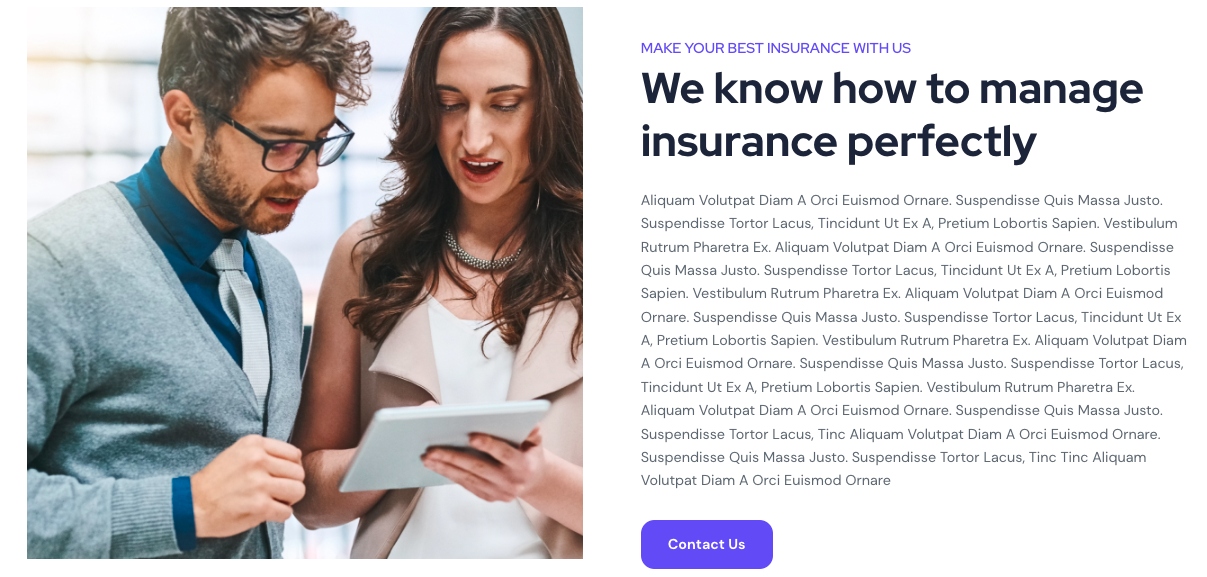
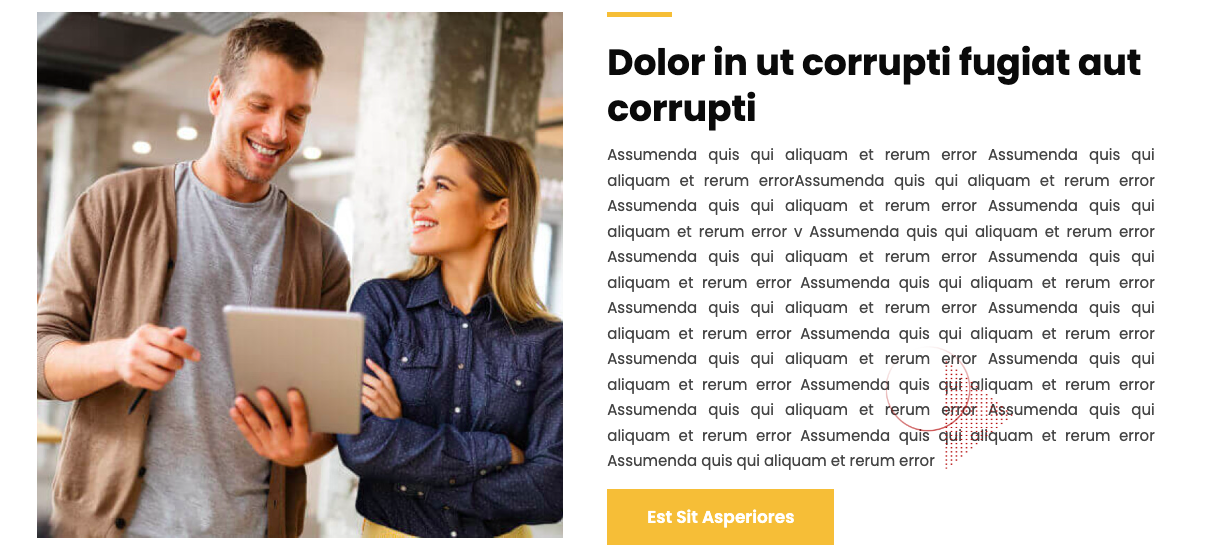
basic section

diff --git a/resources/views/frontend/pages/dynamic_page.blade.php b/resources/views/frontend/pages/dynamic_page.blade.php
@@ -17,63 +17,47 @@
 
 @endsection
 @section('content')
-    <div class="rts-breadcrumb-area bg_image"
-         style="background:linear-gradient(rgb(41 122 190 / 63%), rgb(233 63 51 / 30%)), url( {{ $page_detail->image ? asset('images/page/'.$page_detail->image) : asset('assets/frontend/images/breadcrumb/01.jpg') }} ); margin-bottom:30px;">
+    <div class="rs-breadcrumbs" style="background:linear-gradient(rgb(246 184 51 / 29%), rgb(10 10 10 / 66%)), url( {{ $page_detail->image ? asset('images/page/'.$page_detail->image) : asset('assets/frontend/images/breadcrumbs/inr_1.jpg') }} ); margin-bottom:30px;">
         <div class="container">
-            <div class="row align-items-center">
-                <div class="col-xl-6 col-lg-6 col-md-6 col-sm-12 col-12 breadcrumb-1">
-                    <h1 class="title">{{ucwords(@$page_detail->name)}}</h1>
-                </div>
-                <div class="col-xl-6 col-lg-6 col-md-6 col-sm-12 col-12">
-                    <div class="bread-tag">
-                        <a href="/">Home</a>
-                        <span> / </span>
-                        <a href="#" class="active">{{ucwords(@$page_detail->name)}}</a>
-                    </div>
-                </div>
+            <div class="breadcrumbs-inner">
+                <h1 class="page-title">
+                    {{ucwords(@$page_detail->name)}}
+                </h1>
             </div>
         </div>
     </div>
+
     @foreach($sections as $key=>$value)
 
         @if($value == "basic_section")
-            <div class="rts-business-goal rts-business-goal2 mt--0 rts-section-gapBottom" style="padding-bottom: 30px;!important;">
+            <div class="rs-about style2 pt-20 pb-30">
                 <div class="container">
                     <div class="row">
-                        <!-- business goal left -->
-                        <div class="col-lg-6">
-                            <div class="business-goal-one">
+                        <div class="col-lg-6 pr-33 md-pr-15 md-mb-50">
+                            <div class="images-part">
                                 <img class="lazy" data-src="{{asset('/images/section_elements/basic_section/'.@$basic_elements->image) }}" alt="">
                             </div>
                         </div>
-                        <!-- business goal right -->
-
-                        <!-- right area business -->
-                        <div class="col-lg-6 mt--35 mt_md--70 mt_sm--70 mb_sm--35">
-                            <div class="business-goal-right">
-                                <div class="rts-title-area business text-start pl--30">
-                                    <p class="pre-title">
-                                        {{@$basic_elements->subheading?? ''}}
-                                    </p>
-                                    <h2 class="title">{{@$basic_elements->heading ?? ''}}</h2>
-                                </div>
-                                <div class="rts-business-goal pl--30" style="margin-top: 10px;">
-                                    <div class="about-inner">
-                                        <p class="disc fs-18 text-justify" style="font-size: 18px!important;  line-height: 30px!important;">
-                                            {!! @$basic_elements->description !!}
-                                        </p>
+                        <div class="col-lg-6 ">
+                            <div class="sec-title">
+                                <h2 class="title">
+                                    {{@$basic_elements->heading ?? ''}}
+                                </h2>
+                                <div class="margin-0 pt-10 text-justify"> {!! @$basic_elements->description !!}</div>
+                                @if(@$basic_elements->button_link)
+                                    <div class="btn-part mt-3 md-mt-30">
+                                        <a class="readon consultant discover" href="{{@$basic_elements->button_link}}">
+                                            {{ucwords(@$basic_elements->button ?? 'Discover More')}}
+                                        </a>
                                     </div>
-                                    @if(@$basic_elements->button_link)
-                                        <div class="goal-button-wrapper mt--10">
-                                            <a href="{{@$basic_elements->button_link}}" class="rts-btn btn-primary color-h-black">
-                                                {{ucwords(@$basic_elements->button ?? 'Discover More')}}
-                                            </a>
-                                        </div>
-                                    @endif
-                                </div>
+                                @endif
                             </div>
                         </div>
-                        <!-- right area business ENd -->
+                    </div>
+                </div>
+                <div class="rs-animation">
+                    <div class="animate-style">
+                        <img class="scale" src="{{asset('assets/frontend/images/about/tri-circle-1.png')}}" alt="About">
                     </div>
                 </div>
             </div>
@@ -272,11 +256,11 @@
                         </div>
                     @endif
                     <div class="row">
-                        @if(count(@$singleAlbum->gallery) > 0)
+                        @if(count(@$gallery_elements) > 0)
                             <div id="gallery" style="padding: 0px 30px 0 30px;">
                                 <div id="image-gallery">
                                     <div class="row">
-                                        @foreach($singleAlbum->gallery as $gallery)
+                                        @foreach($gallery_elements as $gallery)
                                             <div class="col-lg-3 col-md-6 col-sm-6 col-xs-12 image">
                                                 <div class="{{  $page_detail->slug =='legal-document' || $page_detail->slug =='legal-documents' ? "":"img-wrapper"   }}">
                                                     <a href="{{asset('/images/albums/gallery/'.@$gallery->filename)}}">

diff --git a/app/Http/Controllers/SectionElementController.php b/app/Http/Controllers/SectionElementController.php
@@ -154,7 +154,6 @@ class SectionElementController extends Controller
             $data=[
                 'heading'                => $request->input('heading'),
                 'page_section_id'        => $section_id,
-                'subheading'             => $request->input('subheading'),
                 'description'            => $request->input('description'),
                 'list_image'             => $request->input('list_image'),
                 'button'                 => $request->input('button'),
@@ -165,7 +164,7 @@ class SectionElementController extends Controller
                 $image        = $request->file('image');
                 $name         = uniqid().'_basic_'.$image->getClientOriginalName();
                 $path         = base_path().'/public/images/section_elements/basic_section/';
-                $moved        = Image::make($image->getRealPath())->fit(610, 610)->orientate()->save($path.$name);
+                $moved        = Image::make($image->getRealPath())->fit(750, 750)->orientate()->save($path.$name);
                 if ($moved){
                     $data['image']= $name;
                 }
@@ -364,7 +363,6 @@ class SectionElementController extends Controller
             $basic                      = SectionElement::find($id);
             $basic->heading             = $request->input('heading');
             $basic->page_section_id     = $section_id;
-            $basic->subheading          = $request->input('subheading');
             $basic->list_image          = $request->input('list_image');
             $basic->description         = $request->input('description');
             $basic->button              = $request->input('button');
@@ -376,7 +374,7 @@ class SectionElementController extends Controller
                 $image                = $request->file('image');
                 $name                 = uniqid().'_basic_'.$image->getClientOriginalName();
                 $path                 = base_path().'/public/images/section_elements/basic_section/';
-                $moved                = Image::make($image->getRealPath())->fit(610, 610)->orientate()->save($path.$name);
+                $moved                = Image::make($image->getRealPath())->fit(750, 750)->orientate()->save($path.$name);
                 if ($moved){
                     $basic->image = $name;
                     if (!empty($oldimage) && file_exists(public_path().'/images/section_elements/basic_section/'.$oldimage)){

diff --git a/resources/views/backend/pages/section_elements/create.blade.php b/resources/views/backend/pages/section_elements/create.blade.php
@@ -172,13 +172,6 @@
                                                 </div>
 
                                                 <div class="form-group mb-3">
-                                                    <label>Sub Heading </label>
-                                                    <input type="text" class="form-control" maxlength="60" name="subheading" value="{{@$basic_elements->subheading}}">
-                                                    <div class="invalid-feedback">
-                                                        Please enter the basic section Sub heading.
-                                                    </div>
-                                                </div>
-                                                <div class="form-group mb-3">
                                                     <label>Description <span class="text-muted text-danger">* write 900 characters only</span></label>
                                                     <textarea class="form-control" maxlength="990" rows="14" name="description" id="basic_editor" required>{!! @$basic_elements->description !!}</textarea>
                                                     <div class="invalid-feedback">
@@ -219,7 +212,7 @@
                                                             id="basic-image" onchange="loadbasicFile('basic-image','current-basic-img',event)" name="image" {{(@$basic_elements->id !== null) ? "":"required" }}
                                                             class="profile-foreground-img-file-input" >
 
-                                                    <figcaption class="figure-caption">Banner image for current basic section. (SIZE:  610 x 610px)</figcaption>
+                                                    <figcaption class="figure-caption">Banner image for current basic section. (SIZE:  750 x 750px)</figcaption>
                                                     <div class="invalid-feedback" >
                                                         Please select a image.
                                                     </div>

diff --git a/resources/views/backend/pages/edit.blade.php b/resources/views/backend/pages/edit.blade.php
@@ -98,9 +98,19 @@
                 <div class="col-md-12">
                     <div class="card ctm-border-radius shadow-sm flex-fill">
                         <div class="card-header">
-                            <h4 class="card-title mb-0">
-                                General Details
-                            </h4>
+                            <div class="row g-4">
+                                <div class="col-sm-auto">
+                                    <h4 class="card-title mb-0">General Details</h4>
+                                </div>
+                                <div class="col-sm">
+                                    <div class="d-flex justify-content-sm-end">
+                                        <div>
+                                            <a href="{{route('section-elements.create',$page->id)}}" class="btn btn-primary"><i class="ri-edit-2-fill align-bottom me-1"></i>Section Details</a>
+                                            <a href="{{route('pages.index')}}" class="btn btn-success"><i class="ri-list-ordered align-bottom me-1"></i>Page List</a>
+                                        </div>
+                                    </div>
+                                </div>
+                            </div>
                         </div>
                         <div class="card-body">
                             <div class="form-group mb-3">

diff --git a/app/Http/Controllers/FrontController.php b/app/Http/Controllers/FrontController.php
@@ -77,16 +77,14 @@ class FrontController extends Controller
         $homepage_info      = $this->home_page->first();
         $testimonials       = Testimonial::orderBy('created_at', 'asc')->get();
         $latestPosts        = $this->blog->inRandomOrder()->take(3)->get();
-        $servicecategory    = ServiceCategory::inRandomOrder()->take(6)->get();
         $recruitments       = RecruitmentProcess::all();
         $director           = ManagingDirector::orderBy('order', 'asc')->get();
-        $subsidiaries       = Subsidiary::orderBy('created_at', 'asc')->get();
         $today              = date('Y-m-d');
         $latestJobs         = Job::orderBy('created_at', 'DESC')->where('start_date','<=',$today)->take(3)->get();
         $recuruitment_index = [3,7,11,15];
         $legal_data         = get_legal_documents();
 
-        return view('welcome',compact('director','legal_data','subsidiaries','today','latestJobs','clients','recruitments','servicecategory','testimonials','clients','latestPosts','latestServices','countries','homepage_info','sliders','recuruitment_index'));
+        return view('welcome',compact('director','legal_data','today','latestJobs','clients','recruitments','testimonials','clients','latestPosts','latestServices','countries','homepage_info','sliders','recuruitment_index'));
     }
 
 
